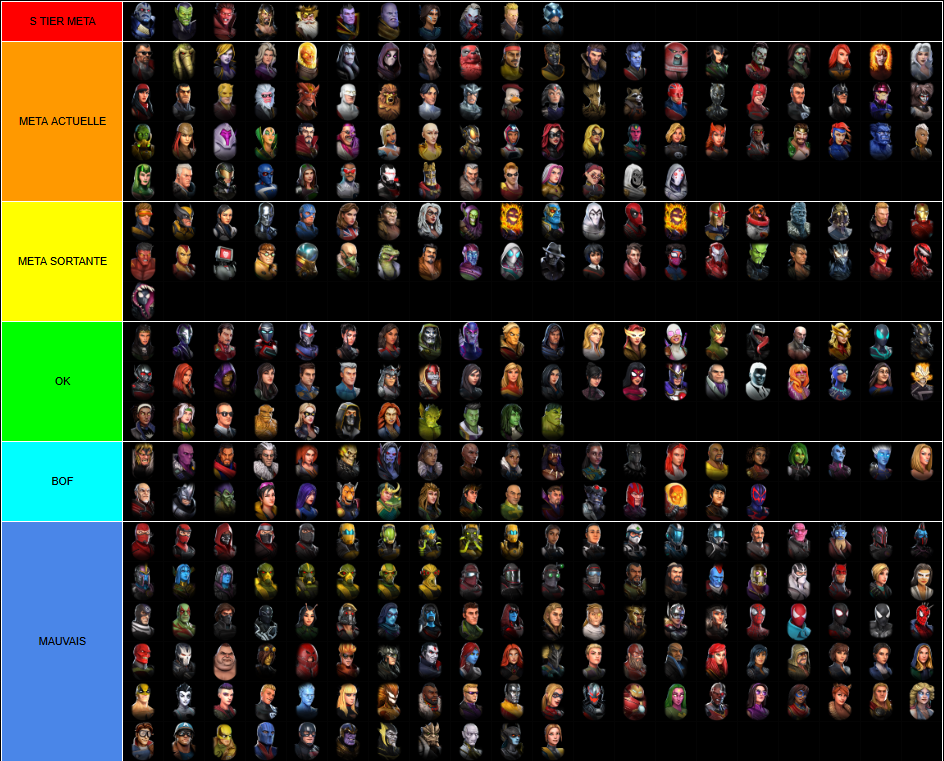
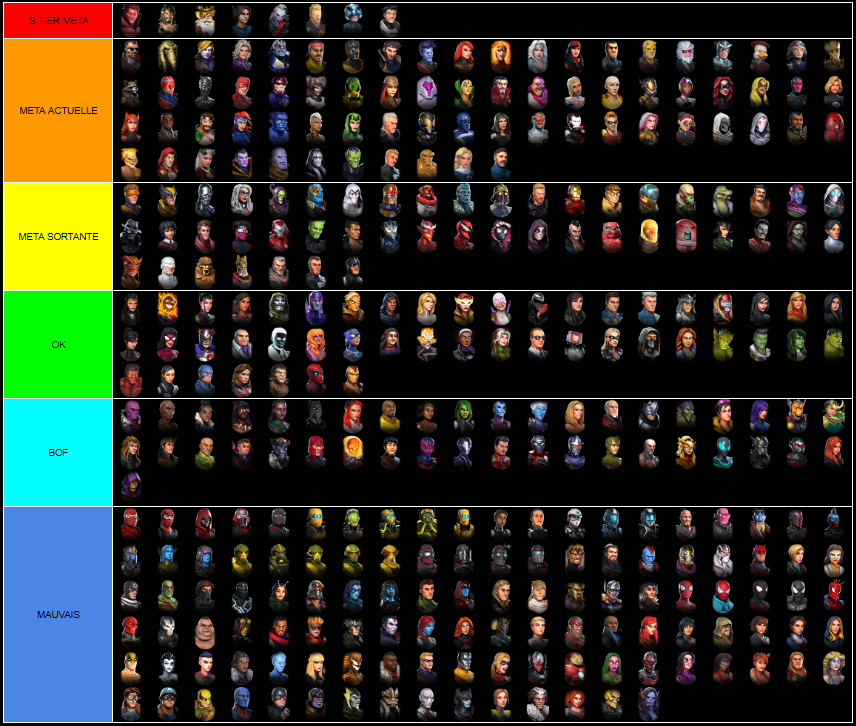
:sparkles: Ajout des maudis et 4f (mcu) et changement des métas en conséquence

diff --git a/guide.html b/guide.html
@@ -94,13 +94,13 @@
     <h1 id="guide-farm">Guide farm</h1>
     <div class="section-container">
         <div class="team">
-            <h3>Trio Annhilateur/Kahhori</h3>
+            <h3>4 Fantastiques</h3>
             <div class="characters">
-                <div class="character"><img src="portrait/Portrait_ThanosEndgame.png" alt="Character 1"></div>
-                <div class="character"><img src="portrait/Portrait_Gladiator.png" alt="Character 2"></div>
-                <div class="character"><img src="portrait/Portrait_Gorr.png" alt="Character 3"></div>
-                <div class="character"><img src="portrait/Portrait_Kahhori.png" alt="Character 5"></div>
-                <div class="character"><img src="portrait/Portrait_Ultimus.png" alt="Character 5"></div>
+                <div class="character"><img src="portrait/Portrait_MrFantasticMCU.png" alt="Character 1"></div>
+                <div class="character"><img src="portrait/Portrait_InvisibleWomanMCU.png" alt="Character 2"></div>
+                <div class="character"><img src="portrait/Portrait_FranklinRichards.png" alt="Character 3"></div>
+                <div class="character"><img src="portrait/Portrait_HumanTorch.png" alt="Character 5"></div>
+                <div class="character"><img src="portrait/Portrait_InvisibleWoman.png" alt="Character 5"></div>
             </div>
         </div>
         <div class="team">
@@ -110,7 +110,7 @@
                 <div class="character"><img src="portrait/Portrait_MysteryMan.png" alt="Character 2"></div>
                 <div class="character"><img src="portrait/Portrait_MysteryMan.png" alt="Character 3"></div>
                 <div class="character"><img src="portrait/Portrait_MysteryMan.png" alt="Character 5"></div>
-                <div class="character"><img src="portrait/Portrait_SuperSkrull.png" alt="Character 5"></div>
+                <div class="character"><img src="portrait/Portrait_Thing.png" alt="Character 5"></div>
             </div>
             <div class="remplacent"></div>
         </div>
@@ -122,6 +122,17 @@
                 <div class="character"><img src="portrait/Portrait_HitMonkey.png" alt="Character 3"></div>
                 <div class="character"><img src="portrait/Portrait_Punisher.png" alt="Character 4"></div>
                 <div class="character"><img src="portrait/Portrait_Elektra.png" alt="Character 5"></div>
+            </div>
+            <div class="remplacent"></div>
+        </div>
+        <div class="team">
+            <h3>Équipe raid Biotechnique</h3>
+            <div class="characters">
+                <div class="character"><img src="portrait/Portrait_Hyperion.png" alt="Character 1"></div>
+                <div class="character"><img src="portrait/Portrait_Songbird.png" alt="Character 2"></div>
+                <div class="character"><img src="portrait/Portrait_VictoriaHand.png" alt="Character 3"></div>
+                <div class="character"><img src="portrait/Portrait_Taskmaster.png" alt="Character 4"></div>
+                <div class="character"><img src="portrait/Portrait_Ghost.png" alt="Character 5"></div>
             </div>
             <div class="remplacent"></div>
         </div>
@@ -158,34 +169,23 @@
             <div class="remplacent"></div>
         </div>
         <div class="team">
-            <h3>Équipe raid Biotechnique</h3>
-            <div class="characters">
-                <div class="character"><img src="portrait/Portrait_Hyperion.png" alt="Character 1"></div>
-                <div class="character"><img src="portrait/Portrait_Songbird.png" alt="Character 2"></div>
-                <div class="character"><img src="portrait/Portrait_VictoriaHand.png" alt="Character 3"></div>
-                <div class="character"><img src="portrait/Portrait_Taskmaster.png" alt="Character 4"></div>
-                <div class="character"><img src="portrait/Portrait_Ghost.png" alt="Character 5"></div>
-            </div>
-            <div class="remplacent"></div>
-        </div>
-        <div class="team">
             <h3>Équipe Présentation n°1</h3>
-            <div class="characters">
-                <div class="character"><img src="portrait/Portrait_Guardian.png" alt="Character 1"></div>
-                <div class="character"><img src="portrait/Portrait_Northstar.png" alt="Character 2"></div>
-                <div class="character"><img src="portrait/Portrait_Wolverine.png" alt="Character 3"></div>
-                <div class="character"><img src="portrait/Portrait_Sunfire.png" alt="Character 4"></div>
-                <div class="character"><img src="portrait/Portrait_Sasquatch.png" alt="Character 5"></div>
-            </div>
-        </div>
-        <div class="team">
-            <h3>Équipe Présentation n°2</h3>
             <div class="characters">
                 <div class="character"><img src="portrait/Portrait_JeanGrey.png" alt="Character 1"></div>
                 <div class="character"><img src="portrait/Portrait_Beast.png" alt="Character 2"></div>
                 <div class="character"><img src="portrait/Portrait_Storm.png" alt="Character 3"></div>
                 <div class="character"><img src="portrait/Portrait_Falcon.png" alt="Character 4"></div>
                 <div class="character"><img src="portrait/Portrait_Hercules.png" alt="Character 5"></div>
+            </div>
+        </div>
+        <div class="team">
+            <h3>Équipe Présentation n°2</h3>
+            <div class="characters">
+                <div class="character"><img src="portrait/Portrait_Guardian.png" alt="Character 1"></div>
+                <div class="character"><img src="portrait/Portrait_Northstar.png" alt="Character 2"></div>
+                <div class="character"><img src="portrait/Portrait_Wolverine.png" alt="Character 3"></div>
+                <div class="character"><img src="portrait/Portrait_Sunfire.png" alt="Character 4"></div>
+                <div class="character"><img src="portrait/Portrait_Sasquatch.png" alt="Character 5"></div>
             </div>
             <div class="remplacent"></div>
         </div>

diff --git a/meta.html b/meta.html
@@ -18,21 +18,11 @@
         <div class="team">
             <h3>Gloubiboulga de perso craqués</h3>
             <div class="characters">
-                <div class="character"><img src="portrait/Portrait_ThanosEndgame.png" alt="Character 1"></div>
-                <div class="character"><img src="portrait/Portrait_Knull.png" alt="Character 2"></div>
-                <div class="character"><img src="portrait/Portrait_Xavier.png" alt="Character 3"></div>
-                <div class="character"><img src="portrait/Portrait_Odin.png" alt="Character 4"></div>
-                <div class="character"><img src="portrait/Portrait_Mephisto.png" alt="Character 5"></div>
-            </div>
-        </div>
-        <div class="team">
-            <h3>Remplacents</h3>
-            <div class="characters">
-                <div class="character"><img src="portrait/Portrait_Gladiator.png" alt="Character 1"></div>
-                <div class="character"><img src="portrait/Portrait_MysteryMan.png" alt="Character 2"></div>
-                <div class="character"><img src="portrait/Portrait_MysteryMan.png" alt="Character 3"></div>
-                <div class="character"><img src="portrait/Portrait_MysteryMan.png" alt="Character 4"></div>
-                <div class="character"><img src="portrait/Portrait_MysteryMan.png" alt="Character 5"></div>
+                <div class="character"><img src="portrait/Portrait_MrFantasticMCU.png" alt="Character 1"></div>
+                <div class="character"><img src="portrait/Portrait_InvisibleWomanMCU.png" alt="Character 2"></div>
+                <div class="character"><img src="portrait/Portrait_FranklinRichards.png" alt="Character 3"></div>
+                <div class="character"><img src="portrait/Portrait_Xavier.png" alt="Character 4"></div>
+                <div class="character"><img src="portrait/Portrait_Odin.png" alt="Character 5"></div>
             </div>
         </div>
     </section>
@@ -86,21 +76,21 @@
         <div class="team">
             <h3>Équipe Mystique</h3>
             <div class="characters">
-                <div class="character"><img src="portrait/Portrait_AgathaHarkness.png" alt="Character 1"></div>
+                <div class="character"><img src="portrait/Portrait_Odin.png" alt="Character 1"></div>
                 <div class="character"><img src="portrait/Portrait_Blade.png" alt="Character 2"></div>
                 <div class="character"><img src="portrait/Portrait_Oath.png" alt="Character 3"></div>
-                <div class="character"><img src="portrait/Portrait_MoonKnight.png" alt="Character 4"></div>
-                <div class="character"><img src="portrait/Portrait_ManThing.png" alt="Character 5"></div>
+                <div class="character"><img src="portrait/Portrait_Knull.png" alt="Character 4"></div>
+                <div class="character"><img src="portrait/Portrait_Mephisto.png" alt="Character 5"></div>
             </div>
         </div>
         <div class="team">
             <h3>Remplacents</h3>
             <div class="characters">
-                <div class="character"><img src="portrait/Portrait_MysteryMan.png" alt="Character 1"></div>
+                <div class="character"><img src="portrait/Portrait_AgathaHarkness.png" alt="Character 1"></div>
                 <div class="character"><img src="portrait/Portrait_MysteryMan.png" alt="Character 2"></div>
                 <div class="character"><img src="portrait/Portrait_MysteryMan.png" alt="Character 3"></div>
-                <div class="character"><img src="portrait/Portrait_Knull.png" alt="Character 4"></div>
-                <div class="character"><img src="portrait/Portrait_Mephisto.png" alt="Character 5"></div>
+                <div class="character"><img src="portrait/Portrait_MoonKnight.png" alt="Character 4"></div>
+                <div class="character"><img src="portrait/Portrait_ManThing.png" alt="Character 5"></div>
             </div>
             <div class="remplacent"></div>
         </div>
@@ -191,13 +181,23 @@
                 <div class="remplacent"></div>
             </div>
             <div class="team">
-                <h3>Cabale</h3>
+                <h3>Maudit</h3>
                 <div class="characters">
-                    <div class="character"><img src="portrait/Portrait_Namor.png" alt="Character 1"></div>
-                    <div class="character"><img src="portrait/Portrait_TheLeader.png" alt="Character 2"></div>
-                    <div class="character"><img src="portrait/Portrait_IronPatriot.png" alt="Character 3"></div>
+                    <div class="character"><img src="portrait/Portrait_TheHood.png" alt="Character 1"></div>
+                    <div class="character"><img src="portrait/Portrait_Satana.png" alt="Character 2"></div>
+                    <div class="character"><img src="portrait/Portrait_Hellverine.png" alt="Character 3"></div>
+                    <div class="character"><img src="portrait/Portrait_Juggernaut.png" alt="Character 4"></div>
+                    <div class="character"><img src="portrait/Portrait_Mephisto.png" alt="Character 5"></div>
+                </div>
+            </div>
+            <div class="team">
+                <h3>Remplacents</h3>
+                <div class="characters">
+                    <div class="character"><img src="portrait/Portrait_MysteryMan.png" alt="Character 1"></div>
+                    <div class="character"><img src="portrait/Portrait_MysteryMan.png" alt="Character 2"></div>
+                    <div class="character"><img src="portrait/Portrait_MysteryMan.png" alt="Character 3"></div>
                     <div class="character"><img src="portrait/Portrait_MysteryMan.png" alt="Character 4"></div>
-                    <div class="character"><img src="portrait/Portrait_MysteryMan.png" alt="Character 5"></div>
+                    <div class="character"><img src="portrait/Portrait_BaronMordo.png" alt="Character 5"></div>
                 </div>
                 <div class="remplacent"></div>
             </div>
